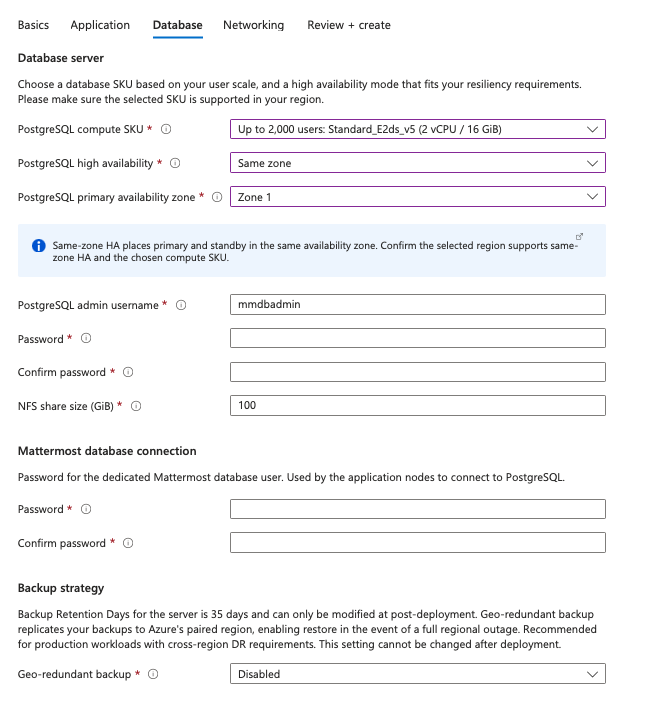
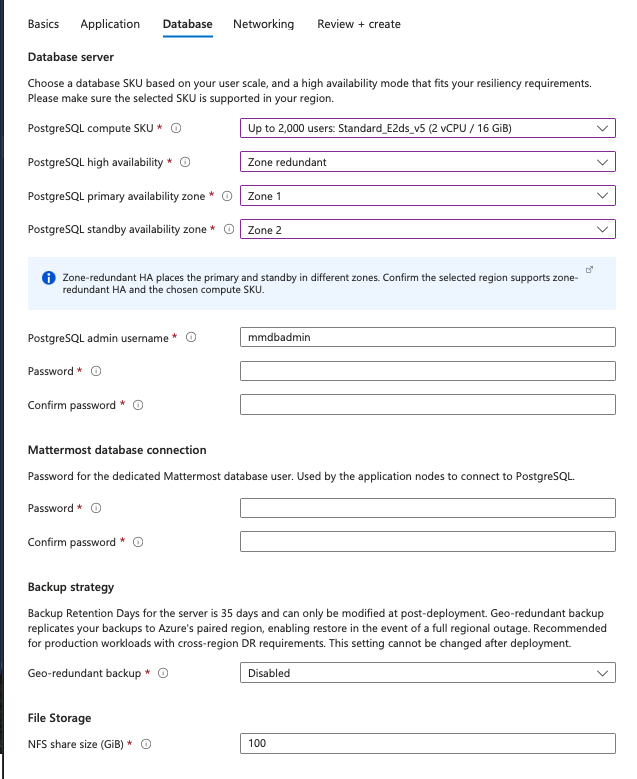
docs: improvements based on review

Changed region(s): [[0.0, 0.0, 0.9843, 1.0], [0.2386, 0.0309, 0.6264, 0.0617], [0.8948, 0.9257, 0.9246, 0.9565]]

diff --git a/source/deployment-guide/server/linux/deploy-azure-native-vm.rst b/source/deployment-guide/server/linux/deploy-azure-native-vm.rst
@@ -56,7 +56,7 @@ On the **Application** tab, configure how the Mattermost application is sized an
 4. **VM SKU:** Size of each VMSS instance. The wizard surfaces recommended Linux sizes first; you can select any supported Linux size available in your region.
 5. **Admin username:** Linux administrator account used to sign in to the VM instances.
 6. **Authentication type:** Choose **Password** or **SSH public key** for Linux sign-in. **SSH public key** is recommended for production deployments.
-7. **Mattermost Version:** The Mattermost version to install (for example, ``11.6.0``). See the :doc:`Mattermost release policy </product-overview/release-policy>` for supported versions.
+7. **Mattermost Version:** The Mattermost version to install (for example, ``11.6.2``). See the :doc:`Mattermost release policy </product-overview/release-policy>` for supported versions.
 
 .. image:: /_static/images/azure/azure-native-application.png
   :alt: An example of the Azure Native Application setup screen.
@@ -66,10 +66,10 @@ Step 4: Database
 
 On the **Database** tab, configure the managed PostgreSQL service and the shared NFS file share.
 
-1. **PostgreSQL compute SKU:** Memory-optimized Flexible Server SKU. Defaults to the SKU recommended for your scaling tier; pick a SKU that is supported in your region. Available choices include ``Standard_E2ds_v5``, ``Standard_E4ds_v5``, and ``Standard_E8ds_v5``.
+1. **PostgreSQL compute SKU:** Memory-optimized Flexible Server SKU. Defaults to the SKU recommended for your scaling tier; pick a SKU that is supported in your region. Available choices are ``Standard_E2ds_v5``, ``Standard_E4ds_v5``, and ``Standard_E8ds_v5``.
 2. **PostgreSQL high availability:** Choose how PostgreSQL is made resilient:
 
-   * **Disabled:** Single primary instance. Suitable for small deployments and lower-cost evaluations.
+   * **Disabled:** Single primary instance. Suitable for small deployments.
    * **Same zone:** Primary and standby in the same availability zone.
    * **Zone redundant:** Primary and standby in different availability zones; recommended for production HA.
 
@@ -77,9 +77,9 @@ On the **Database** tab, configure the managed PostgreSQL service and the shared
 
 3. **Primary availability zone** and **standby availability zone:** Shown when HA is enabled. For zone-redundant HA, the primary and standby zones must be different. Pick zones supported in your region for the PostgreSQL SKU you chose.
 4. **PostgreSQL admin username and password:** Administrator credentials for the Flexible Server. Avoid reserved names such as ``azure_superuser``. The password must meet `Azure Flexible Server password complexity requirements <https://learn.microsoft.com/azure/postgresql/flexible-server/concepts-security#password>`_.
-5. **NFS share size (GiB):** Size of the Azure Files (NFS) share used by Mattermost for shared application data. Minimum 100 GiB.
-6. **Mattermost database user password:** In the **Mattermost database connection** section, set the password for the dedicated Mattermost database user that the application nodes use to connect to PostgreSQL. This is separate from the PostgreSQL administrator credentials. The password must meet the same complexity rules as the admin password.
-7. **Geo-redundant backup:** Replicates PostgreSQL backups to Azure's paired region for cross-region disaster recovery. **This setting cannot be changed after deployment.**
+5. **Mattermost database user password:** In the **Mattermost database connection** section, set the password for the dedicated Mattermost database user that the application nodes use to connect to PostgreSQL. This is separate from the PostgreSQL administrator credentials. The password must meet the same complexity rules as the admin password.
+6. **Geo-redundant backup:** Replicates PostgreSQL backups to Azure's paired region for cross-region disaster recovery. **This setting cannot be changed after deployment.**
+7. **NFS share size (GiB):** Size of the Azure Files (NFS) share used by Mattermost for shared application data. Minimum 100 GiB.
 
 .. note::
 
@@ -119,11 +119,6 @@ Review your settings, accept any **Marketplace** terms if prompted, then select 
 
   ``https://<your-custom-domain>``
 
-Step 7: Open Mattermost and create your administrator
-~~~~~~~~~~~~~~~~~~~~~~~~~~~~~~~~~~~~~~~~~~~~~~~~~~~~~
-
-In a browser, go to your Mattermost URL. Mattermost will prompt you to **create the first user**, which becomes the **System Administrator**. That account is different from the **Linux** username and password (or SSH key) you configured in Step 3.
-
 Congratulations! You've successfully deployed a production-style Mattermost stack on Azure.
 
 Next steps
@@ -138,13 +133,29 @@ Runbooks
 Upgrade Mattermost server
 ------------------------
 
-The VMSS is using a Mattermost based image matching the Mattermost version you selected in Step 3. This image is updated periodically by Mattermost and to upgrade the Mattermost server you need to update the image version.
+The VM scale set runs a Mattermost **Marketplace VM image** matching the version you selected in Step 3. Mattermost publishes new image versions for each supported release. To upgrade, point the VMSS at a newer image version in your deployment region. Application data stays in **PostgreSQL** and on the **Azure Files** share; the upgrade rolls application instances to VMs built from the updated image.
 
-To upgrade the Mattermost server image version verify the changelog for the new version, make sure the backups are working and then you can run the following command using the Azure CLI:
+Before you upgrade
+^^^^^^^^^^^^^^^^^^
 
-  .. code-block:: sh
+* Review the :doc:`important upgrade notes </administration-guide/upgrade/important-upgrade-notes>`, and :doc:`prepare to upgrade </administration-guide/upgrade/prepare-to-upgrade-mattermost>` for the target version.
+* Confirm **PostgreSQL** backups are current and that you can restore if needed.
+* Pick a target version from the :doc:`Mattermost release policy </product-overview/release-policy>`.
 
-    az vmss update \
-      --resource-group <resource-group> \
-      --name <vmss-name> \
-      --set virtualMachineProfile.storageProfile.imageReference.version=<new-version>
+Upgrade steps
+^^^^^^^^^^^^^
+
+1. **Update the VMSS** to the new image version:
+
+   .. code-block:: sh
+
+     az vmss update \
+       --resource-group <resource-group> \
+       --name <resource-name-prefix>-vmss \
+       --set virtualMachineProfile.storageProfile.imageReference.version=<new-version>
+
+   The VMSS uses a **rolling** upgrade policy and an application health probe on ``/api/v4/system/ping``, so instances are replaced in batches while the Application Gateway keeps serving traffic to healthy nodes.
+
+2. **Monitor the rollout** in the Azure portal: open your VMSS → **Instances** (or **Rolling upgrades**) and wait until all instances are healthy and running the new model.
+
+3. **Verify Mattermost**: open your site, confirm users can sign in, and check **System Console → About** for the expected server version.